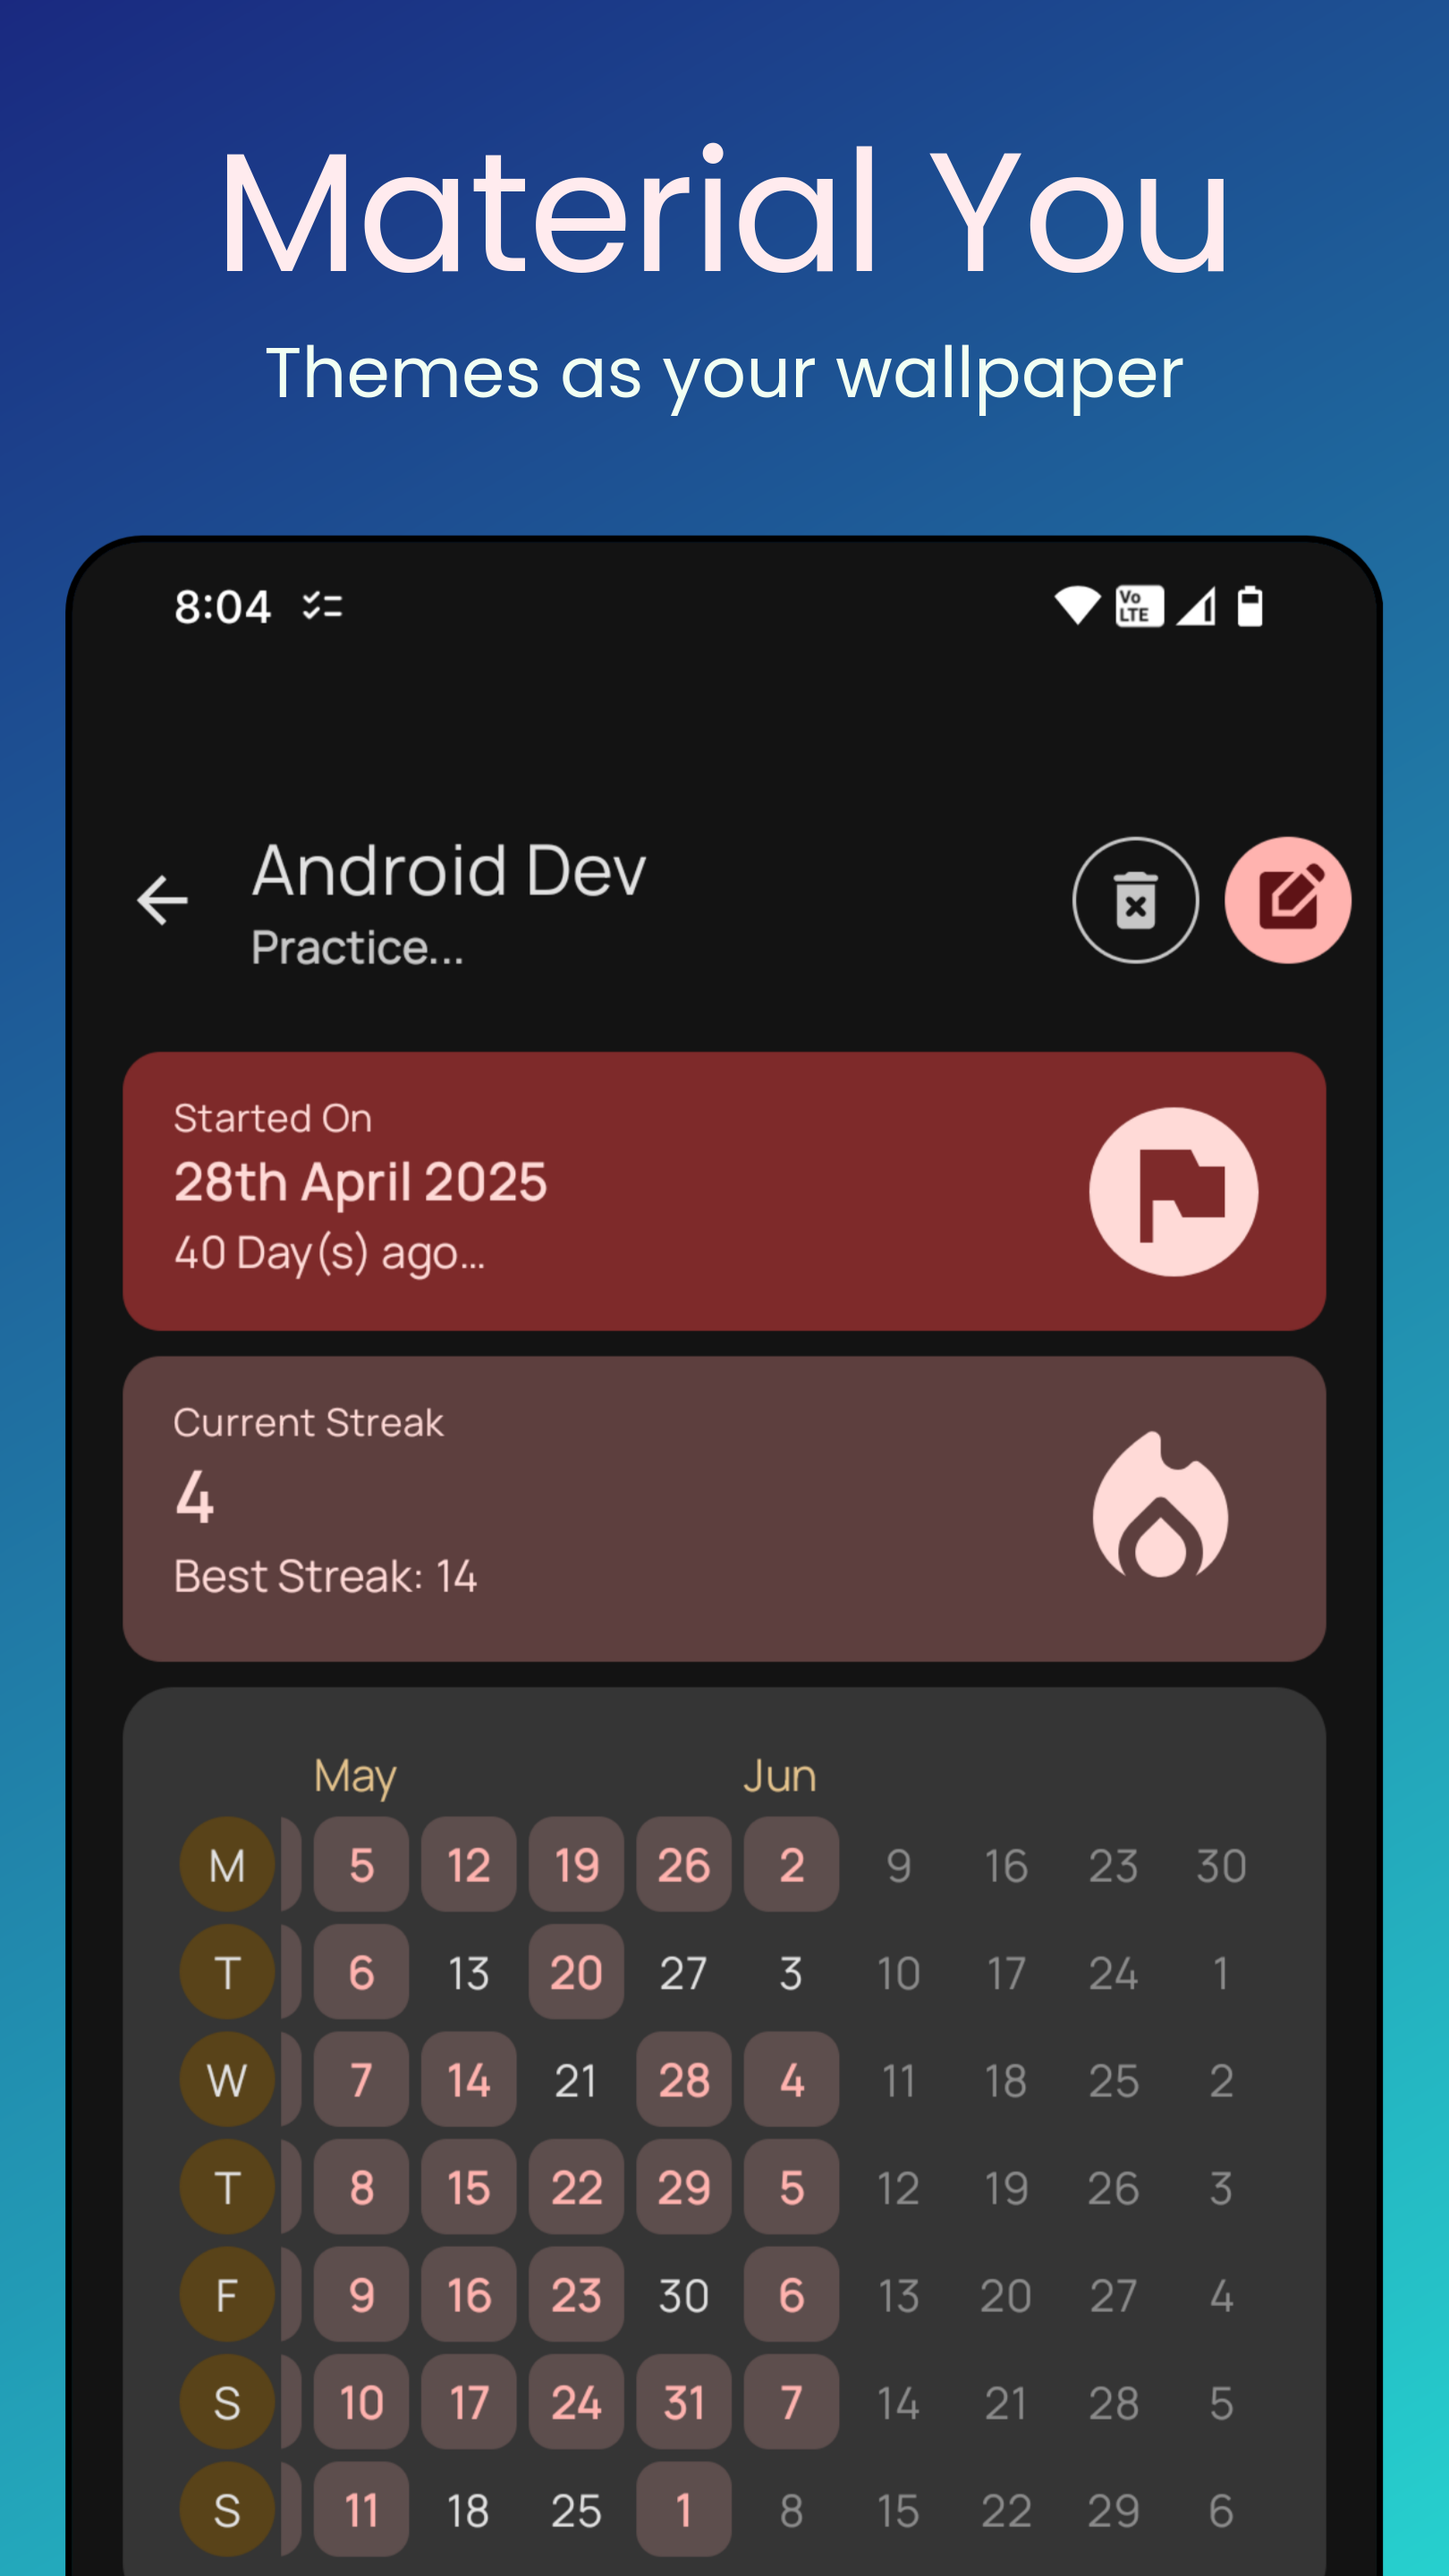
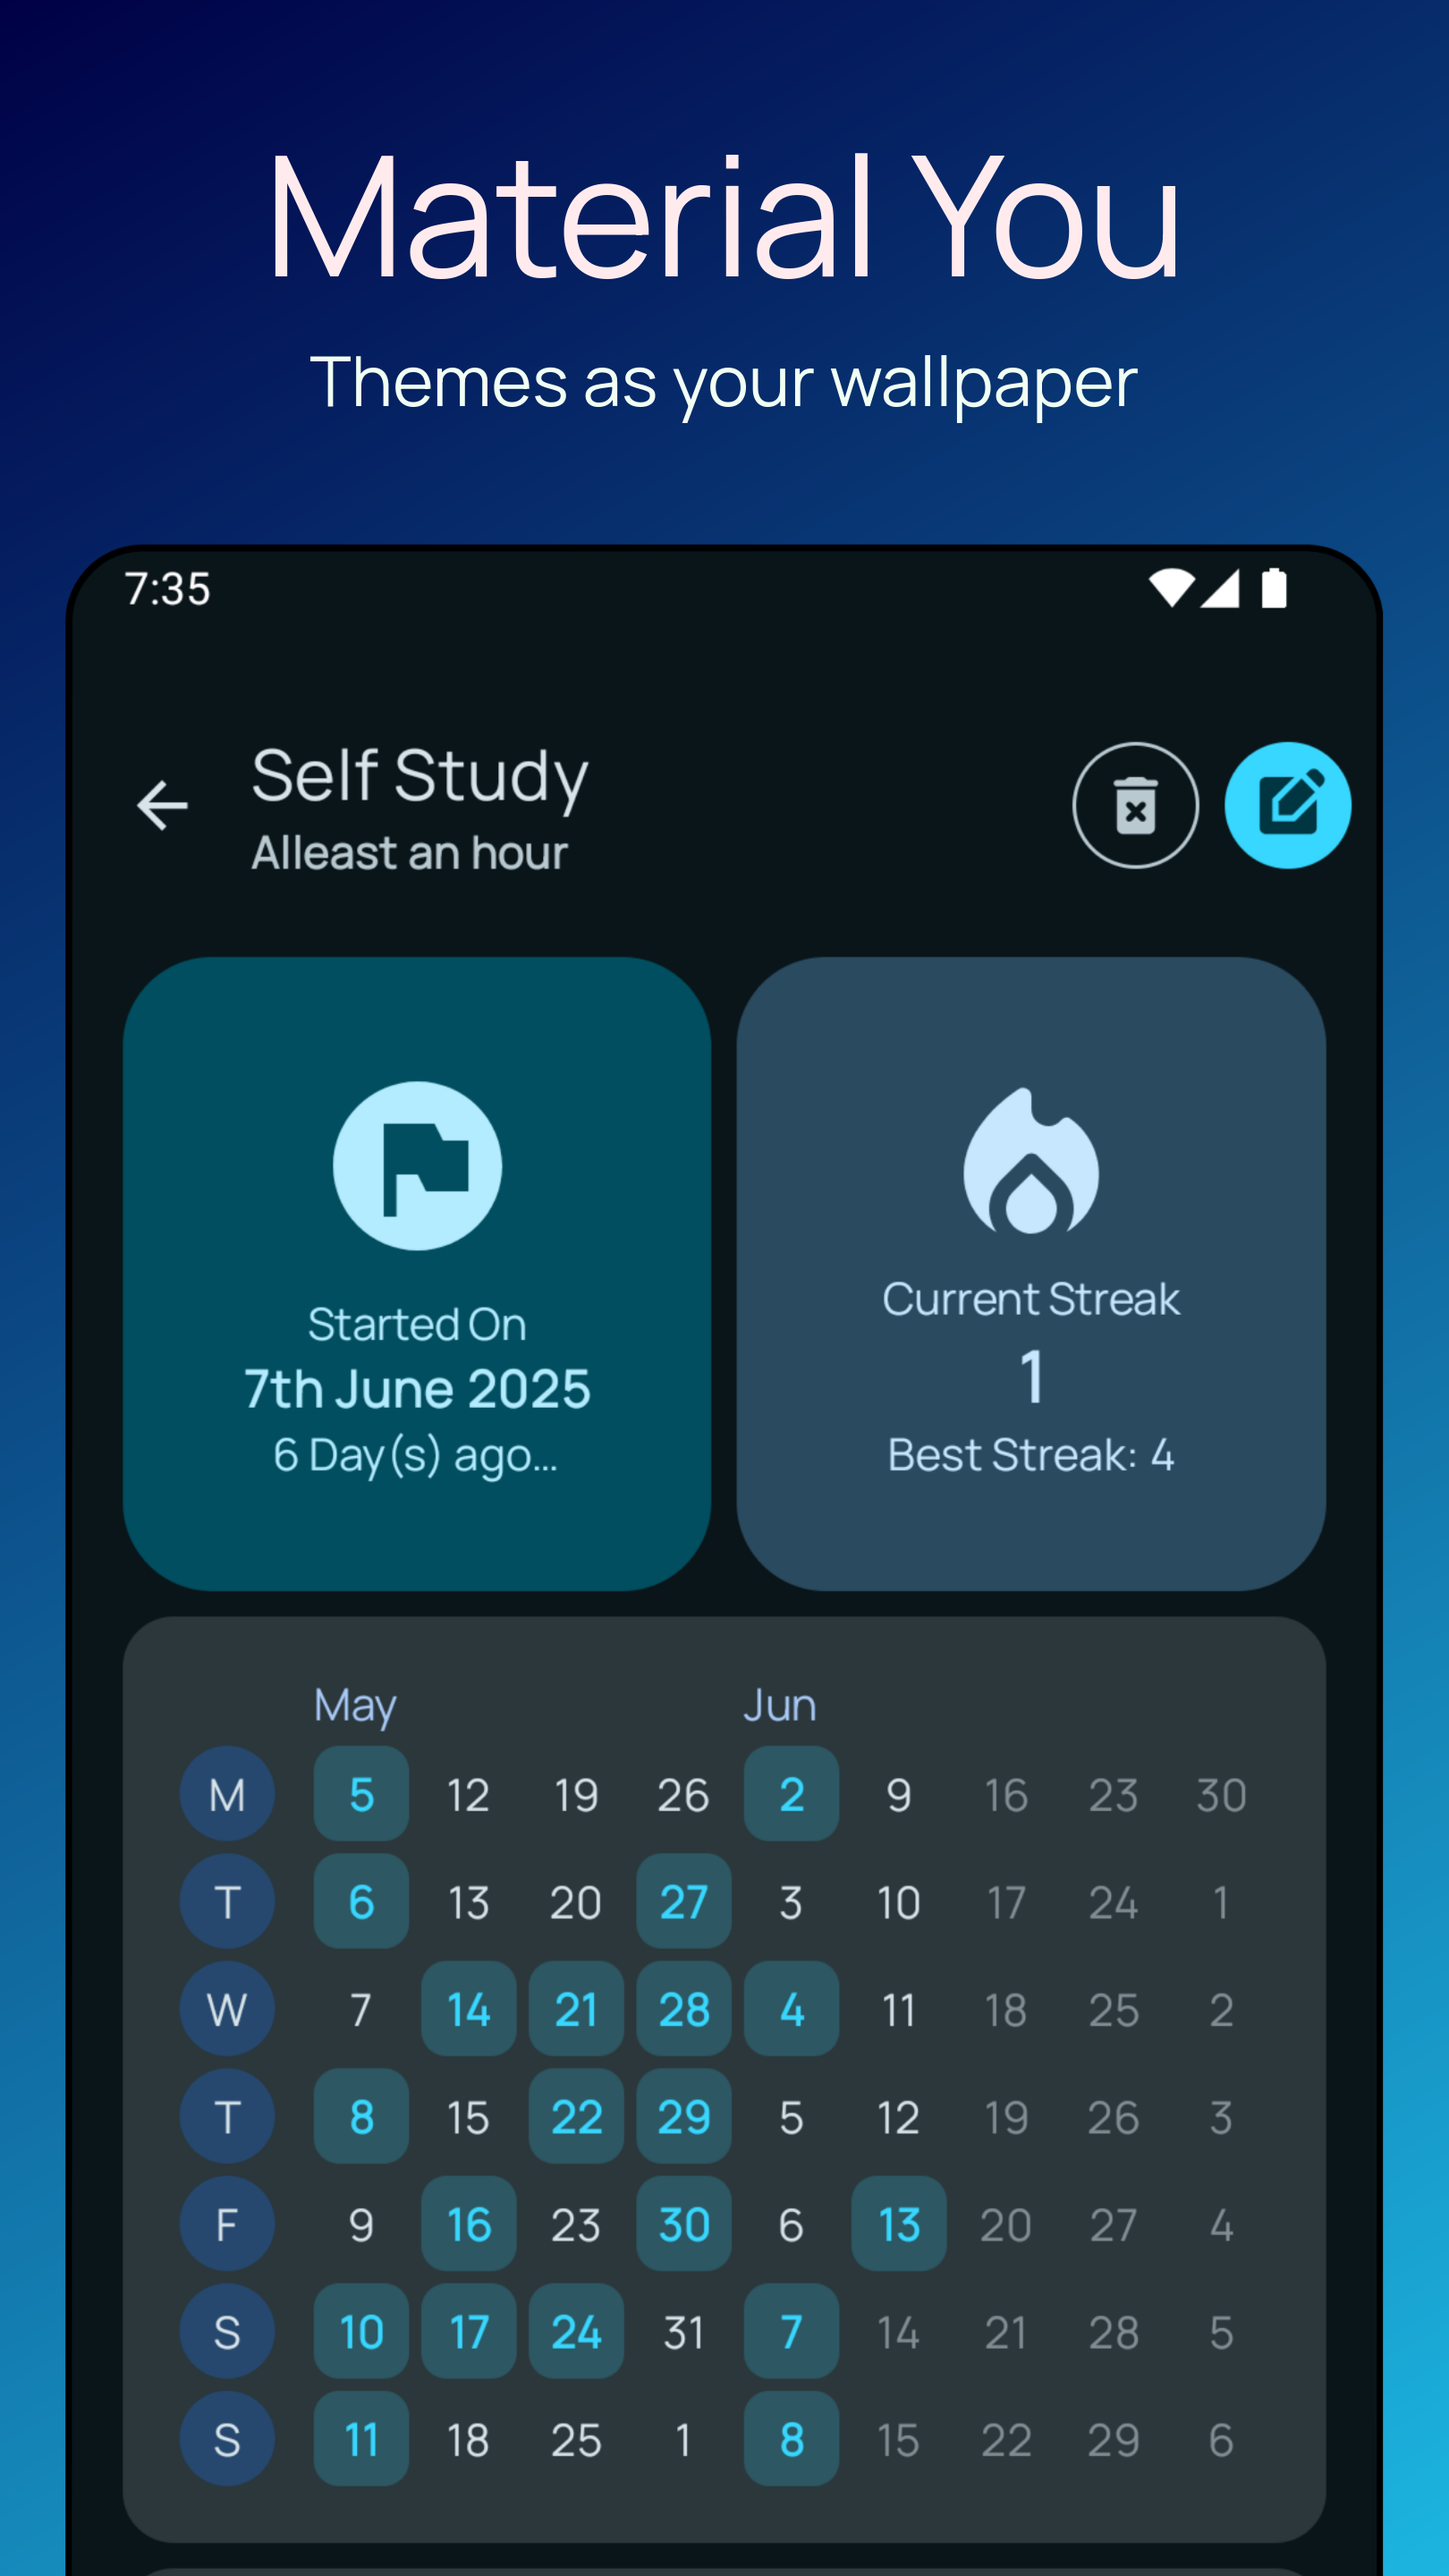
:wrench: Widget Fixes #91
* :wrench: Fixing widgets and habit analytics UI
* :wrench: Metadata updates

diff --git a/app/src/main/java/com/shub39/grit/habits/presentation/component/AnalyticsPage.kt b/app/src/main/java/com/shub39/grit/habits/presentation/component/AnalyticsPage.kt
@@ -23,6 +23,8 @@ import androidx.compose.material.icons.automirrored.filled.ArrowBack
 import androidx.compose.material.icons.filled.Create
 import androidx.compose.material3.Button
 import androidx.compose.material3.ButtonShapes
+import androidx.compose.material3.Card
+import androidx.compose.material3.CardDefaults
 import androidx.compose.material3.ExperimentalMaterial3Api
 import androidx.compose.material3.ExperimentalMaterial3ExpressiveApi
 import androidx.compose.material3.FilledIconButton
@@ -30,8 +32,6 @@ import androidx.compose.material3.FilledTonalIconButton
 import androidx.compose.material3.Icon
 import androidx.compose.material3.IconButton
 import androidx.compose.material3.IconButtonShapes
-import androidx.compose.material3.ListItem
-import androidx.compose.material3.ListItemDefaults
 import androidx.compose.material3.MaterialTheme
 import androidx.compose.material3.OutlinedIconButton
 import androidx.compose.material3.OutlinedTextField
@@ -47,7 +47,6 @@ import androidx.compose.runtime.remember
 import androidx.compose.runtime.setValue
 import androidx.compose.ui.Alignment
 import androidx.compose.ui.Modifier
-import androidx.compose.ui.draw.clip
 import androidx.compose.ui.graphics.SolidColor
 import androidx.compose.ui.res.painterResource
 import androidx.compose.ui.res.stringResource
@@ -176,77 +175,97 @@ fun AnalyticsPage(
             contentPadding = PaddingValues(16.dp)
         ) {
             item {
-                ListItem(
-                    modifier = Modifier.clip(MaterialTheme.shapes.medium),
-                    colors = ListItemDefaults.colors(
-                        containerColor = MaterialTheme.colorScheme.primaryContainer,
-                        headlineColor = MaterialTheme.colorScheme.onPrimaryContainer,
-                        trailingIconColor = MaterialTheme.colorScheme.onPrimaryContainer,
-                        overlineColor = MaterialTheme.colorScheme.onPrimaryContainer,
-                        supportingColor = MaterialTheme.colorScheme.onPrimaryContainer
-                    ),
-                    trailingContent = {
-                        Icon(
-                            painter = painterResource(R.drawable.baseline_flag_circle_24),
-                            contentDescription = "Flag",
-                            modifier = Modifier.size(64.dp)
+                Row(
+                    modifier = Modifier
+                        .height(200.dp)
+                        .fillMaxWidth(),
+                    verticalAlignment = Alignment.CenterVertically,
+                    horizontalArrangement = Arrangement.spacedBy(8.dp)
+                ) {
+                    Card(
+                        shape = MaterialTheme.shapes.extraLarge,
+                        modifier = Modifier.weight(1f),
+                        colors = CardDefaults.cardColors(
+                            contentColor = MaterialTheme.colorScheme.onPrimaryContainer,
+                            containerColor = MaterialTheme.colorScheme.primaryContainer
                         )
-                    },
-                    overlineContent = {
-                        Text(text = stringResource(R.string.started_on))
-                    },
-                    headlineContent = {
-                        Text(
-                            text = formatDateWithOrdinal(currentHabit.time.toLocalDate()),
-                            fontWeight = FontWeight.Bold
-                        )
-                    },
-                    supportingContent = {
-                        Text(
-                            text = stringResource(
-                                R.string.days_ago_format,
-                                ChronoUnit.DAYS.between(currentHabit.time.toLocalDate(), today)
-                            )
-                        )
-                    }
-                )
-            }
-
-            item {
-                ListItem(
-                    modifier = Modifier.clip(MaterialTheme.shapes.medium),
-                    colors = ListItemDefaults.colors(
-                        containerColor = MaterialTheme.colorScheme.secondaryContainer,
-                        headlineColor = MaterialTheme.colorScheme.onSecondaryContainer,
-                        trailingIconColor = MaterialTheme.colorScheme.onSecondaryContainer,
-                        overlineColor = MaterialTheme.colorScheme.onSecondaryContainer,
-                        supportingColor = MaterialTheme.colorScheme.onSecondaryContainer
-                    ),
-                    trailingContent = {
-                        Icon(
-                            painter = painterResource(R.drawable.round_local_fire_department_24),
-                            contentDescription = "Streak",
+                    ) {
+                        Column(
                             modifier = Modifier
-                                .padding(4.dp)
-                                .size(64.dp)
-                        )
-                    },
-                    overlineContent = {
-                        Text(text = stringResource(R.string.streak))
-                    },
-                    headlineContent = {
-                        Text(
-                            text = currentStreak.toString(),
-                            fontWeight = FontWeight.Bold,
-                            style = MaterialTheme.typography.titleLarge
-                        )
-                    },
-                    supportingContent = {
-                        Text(
-                            text = stringResource(R.string.best_streak, bestStreak)
-                        )
+                                .fillMaxSize()
+                                .padding(16.dp),
+                            horizontalAlignment = Alignment.CenterHorizontally,
+                            verticalArrangement = Arrangement.Center
+                        ) {
+                            Icon(
+                                painter = painterResource(R.drawable.baseline_flag_circle_24),
+                                contentDescription = "Flag",
+                                modifier = Modifier.size(64.dp)
+                            )
+
+                            Spacer(modifier = Modifier.height(8.dp))
+
+                            Text(
+                                text = stringResource(R.string.started_on),
+                                style = MaterialTheme.typography.titleSmall
+                            )
+
+                            Text(
+                                text = formatDateWithOrdinal(currentHabit.time.toLocalDate()),
+                                fontWeight = FontWeight.Bold,
+                                style = MaterialTheme.typography.bodyLarge
+                            )
+
+                            Text(
+                                text = stringResource(
+                                    R.string.days_ago_format,
+                                    ChronoUnit.DAYS.between(currentHabit.time.toLocalDate(), today)
+                                ),
+                                style = MaterialTheme.typography.bodyMedium
+                            )
+                        }
                     }
-                )
+
+                    Card(
+                        shape = MaterialTheme.shapes.extraLarge,
+                        modifier = Modifier.weight(1f),
+                        colors = CardDefaults.cardColors(
+                            contentColor = MaterialTheme.colorScheme.onSecondaryContainer,
+                            containerColor = MaterialTheme.colorScheme.secondaryContainer
+                        )
+                    ) {
+                        Column(
+                            modifier = Modifier
+                                .fillMaxSize()
+                                .padding(16.dp),
+                            horizontalAlignment = Alignment.CenterHorizontally,
+                            verticalArrangement = Arrangement.Center
+                        ) {
+                            Icon(
+                                painter = painterResource(R.drawable.round_local_fire_department_24),
+                                contentDescription = "Streak",
+                                modifier = Modifier
+                                    .size(64.dp)
+                            )
+
+                            Text(
+                                text = stringResource(R.string.streak),
+                                style = MaterialTheme.typography.titleSmall
+                            )
+
+                            Text(
+                                text = currentStreak.toString(),
+                                fontWeight = FontWeight.Bold,
+                                style = MaterialTheme.typography.titleLarge
+                            )
+
+                            Text(
+                                text = stringResource(R.string.best_streak, bestStreak),
+                                style = MaterialTheme.typography.bodyMedium
+                            )
+                        }
+                    }
+                }
             }
 
             item {

diff --git a/app/src/main/java/com/shub39/grit/widgets/HabitStreakWidget.kt b/app/src/main/java/com/shub39/grit/widgets/HabitStreakWidget.kt
@@ -202,7 +202,9 @@ class HabitStreakWidget : GlanceAppWidget(), KoinComponent {
                 }
             ) {
                 Row(
-                    verticalAlignment = Alignment.CenterVertically
+                    verticalAlignment = Alignment.CenterVertically,
+                    horizontalAlignment = Alignment.CenterHorizontally,
+                    modifier = GlanceModifier.fillMaxSize()
                 ) {
                     Column {
                         Text(
@@ -214,7 +216,7 @@ class HabitStreakWidget : GlanceAppWidget(), KoinComponent {
                             )
                         )
 
-                        Spacer(GlanceModifier.height(10.dp))
+                        Spacer(GlanceModifier.height(16.dp))
 
                         Row {
                             last5Days.forEach {

diff --git a/app/src/main/java/com/shub39/grit/habits/presentation/Habits.kt b/app/src/main/java/com/shub39/grit/habits/presentation/Habits.kt
@@ -18,6 +18,7 @@ import androidx.navigation.compose.composable
 import androidx.navigation.compose.rememberNavController
 import com.materialkolor.PaletteStyle
 import com.shub39.grit.core.domain.AppTheme
+import com.shub39.grit.core.domain.Fonts
 import com.shub39.grit.core.presentation.components.PageFill
 import com.shub39.grit.core.presentation.theme.GritTheme
 import com.shub39.grit.core.presentation.theme.Theme
@@ -89,7 +90,8 @@ private fun Preview() {
         theme = Theme(
             appTheme = AppTheme.DARK,
             isMaterialYou = true,
-            paletteStyle = PaletteStyle.Expressive
+            font = Fonts.MANROPE,
+            paletteStyle = PaletteStyle.TonalSpot
         )
     ) {
         Scaffold { padding ->

diff --git a/app/src/main/java/com/shub39/grit/widgets/HabitOverviewWidget.kt b/app/src/main/java/com/shub39/grit/widgets/HabitOverviewWidget.kt
@@ -143,7 +143,8 @@ class HabitOverviewWidget : GlanceAppWidget(), KoinComponent {
                             color = GlanceTheme.colors.onPrimaryContainer,
                             fontWeight = FontWeight.Bold,
                             fontSize = 20.sp
-                        )
+                        ),
+                        modifier = GlanceModifier.clickable(actionStartActivity<MainActivity>())
                     )
 
                     Spacer(modifier = GlanceModifier.defaultWeight())
